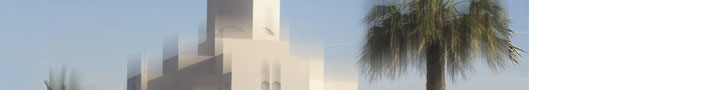
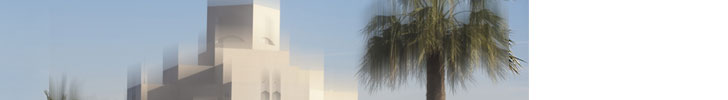
update QNSD_banners/Rope/728x90_EN

diff --git a/Qatar/QNSD_banners/Rope/728x90_EN/index.html b/Qatar/QNSD_banners/Rope/728x90_EN/index.html
@@ -29,19 +29,19 @@
 				.to(bg2, 0.5, {autoAlpha:1, ease:Power0.easeInOut}, '-=0.5');
 
 			tl.to(f2_text, 0.5, {autoAlpha:1, top: 10, ease:Power2.easeInOut})
-				.to(bg2, 0.5, {top: -3, ease:Power2.easeInOut}, '-=0.5');
+				.to(bg2, 0.5, {top: -12, ease:Power2.easeInOut}, '-=0.5');
 
 			tl.to(f2_text, 0.5, {autoAlpha:1, top: 0, ease:Power1.easeInOut})
-				.to(bg2, 0.5, {top: 3, ease:Power1.easeInOut}, '-=0.5');
+				.to(bg2, 0.5, {top: -3, ease:Power1.easeInOut}, '-=0.5');
 
 			tl.to(f2_text, 0.5, {autoAlpha:1, top: 10, ease:Power2.easeInOut})
-				.to(bg2, 0.5, {top: -3, ease:Power2.easeInOut}, '-=0.5');
+				.to(bg2, 0.5, {top: -12, ease:Power2.easeInOut}, '-=0.5');
 
 			tl.to(f2_text, 0.5, {autoAlpha:1, top: 0, ease:Power2.easeInOut})
-				.to(bg2, 0.5, {top: 3, ease:Power2.easeInOut}, '-=0.5');
+				.to(bg2, 0.5, {top: -3, ease:Power2.easeInOut}, '-=0.5');
 
 			tl.to(f2_text, 0.3, {autoAlpha:1, top: 5, ease:Power1.easeInOut})
-				.to(bg2, 0.3, {autoAlpha:0, top: 0, ease:Power1.easeInOut}, '-=0.3');
+				.to(bg2, 0.3, {autoAlpha:0,  ease:Power1.easeInOut}, '-=0.3');
 
 			tl.to(f1_text, 0.5, {autoAlpha:0, top:-50, ease:Power0.easeInOut},'-=2')
 				.to(f3_text, 0.5, {autoAlpha:1, top:0, ease:Power0.easeInOut},'-=1.5')

diff --git a/Qatar/QNSD_banners/Rope/728x90_EN/styles.css b/Qatar/QNSD_banners/Rope/728x90_EN/styles.css
@@ -37,7 +37,8 @@ a {
 }
 #bg2 {
   background: url("bg2.jpg") center no-repeat;
-  top: 3px;
+  height: 100px;
+  top: 0px;
 }
 
 #f1_text {
